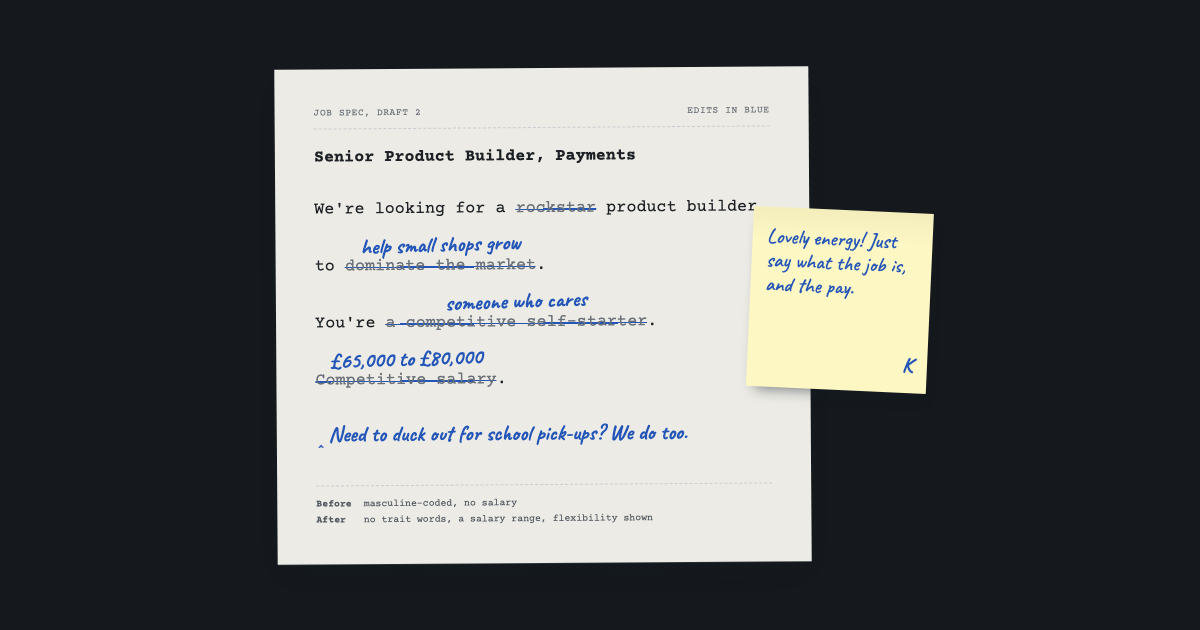
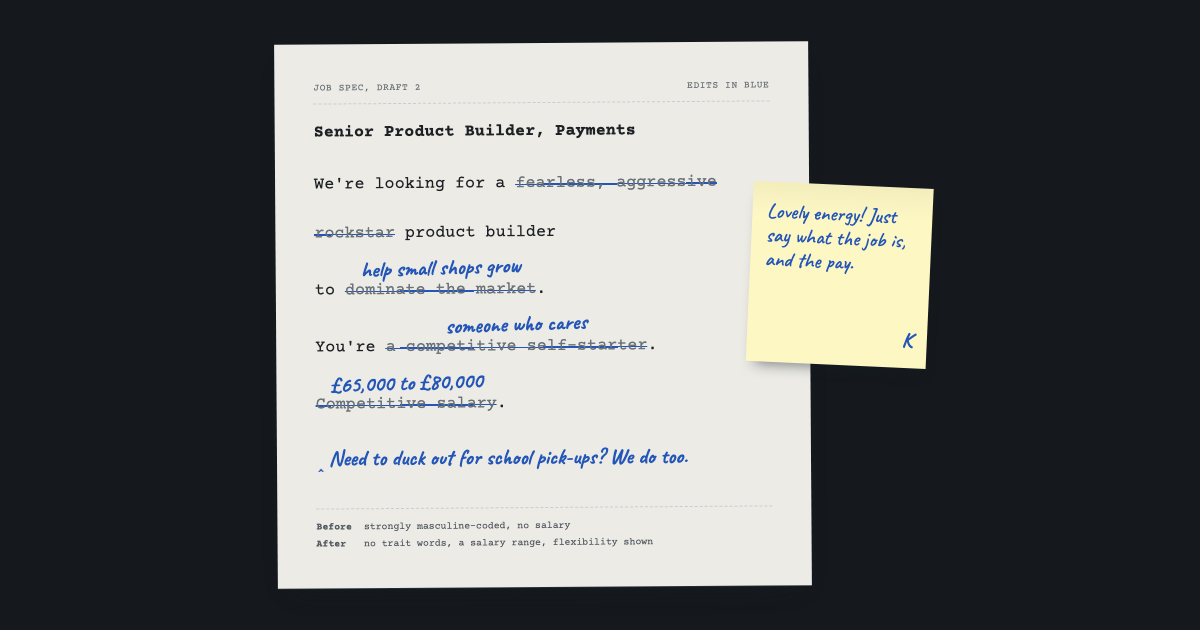
docs(site): lean into hyperbole in the example opener

Changed region(s): [[0.2158, 0.0603, 0.8017, 0.754], [0.2158, 0.7841, 0.6783, 0.9349], [0.6167, 0.573, 0.7708, 0.6333]]

diff --git a/docs/index.html b/docs/index.html
@@ -361,14 +361,14 @@ footer {
       <p class="sig">K</p>
     </aside>
       <p class="ad">
-        <span class="line">We're looking for a <del style="--d:0.6s">rockstar</del> product builder</span>
+        <span class="line">We're looking for a <del style="--d:0.6s">fearless, aggressive rockstar</del> product builder</span>
         <span class="line">to <span class="edit" data-new="help small shops grow"><del style="--d:1.5s">dominate the market</del><ins style="--d:2.1s">help small shops grow</ins></span>.</span>
         <span class="line">You're <span class="edit" data-new="someone who cares"><del style="--d:3.2s">a competitive self-starter</del><ins style="--d:3.9s">someone who cares</ins></span>.</span>
         <span class="line"><span class="edit" data-new="£65,000 to £80,000"><del style="--d:5s">Competitive salary</del><ins style="--d:5.6s">£65,000 to £80,000</ins></span>.</span>
         <span class="line"><span class="edit add"><span class="caret" aria-hidden="true" style="--d:6.6s">&#8248;</span><ins style="--d:6.8s; --w:1.4s">Need to duck out for school <span style="white-space: nowrap">pick-ups?</span> We do too.</ins></span></span>
       </p>
       <dl class="wordcheck">
-        <dt>Before</dt><dd>masculine-coded, no salary</dd>
+        <dt>Before</dt><dd>strongly masculine-coded, no salary</dd>
         <dt class="after">After</dt><dd class="after">no trait words, a salary range, flexibility shown</dd>
       </dl>
       <p class="replay-row"><button type="button" class="replay" id="replay">Replay the edits</button></p>
